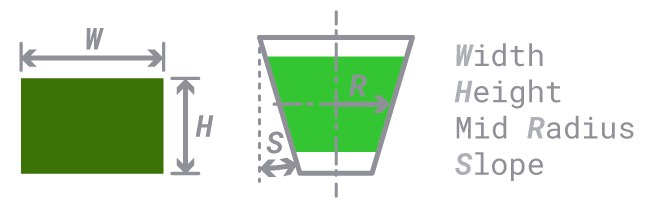
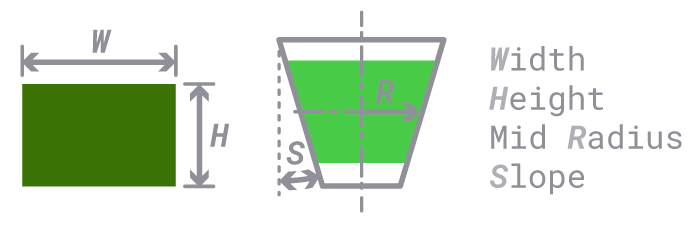
Enlarge label

diff --git a/src/index.html b/src/index.html
@@ -26,7 +26,7 @@
 			}
 		</style>
 		<div id="container"></div>
-		<img width=325 src="Label-Diagram.png">
+		<img width=350 src="Label-Diagram.png">
 		<script async type="module" src="main.js"></script>
 	</body>
 </html>
